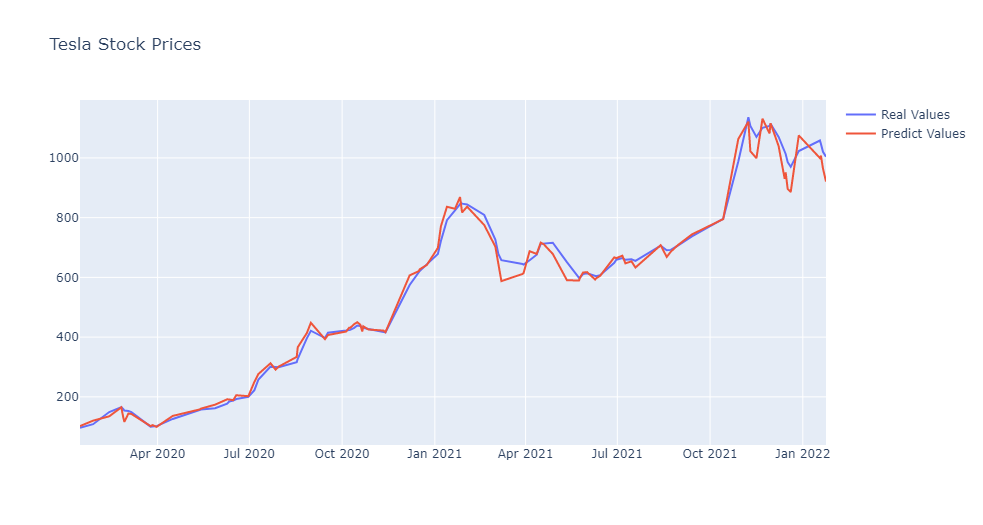
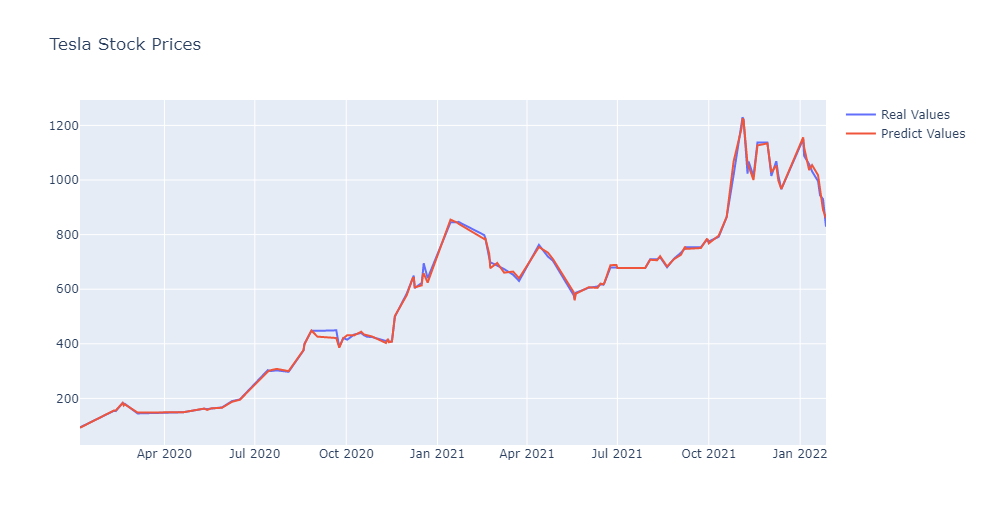
some tesla predict fixes

diff --git a/linear_regression.html b/linear_regression.html
@@ -96,7 +96,7 @@
 								<header>
 									<div class="title">
 										<h2><a href="#">Machine Learning: Predicting Stock Prices with Linear Regression</a></h2>
-										<p>A machine learning project to predict Stock Prices using the Python libraries Pandas, Numpy, SKlearn and Plotly.</p>
+										<p>A machine learning project to predict Stock Prices using the Python libraries like Pandas, Numpy, SKlearn and Plotly.</p>
 									</div>
 									<div class="meta">
 										<time class="published" datetime="2021-01-19">January 19, 2022</time>
@@ -111,10 +111,11 @@
 
 								<ul>
 									<li>This is a Machine Learning Project of the Telsa Stock price dataset (from 2020 to 2022).</li>
-									<li>I used a linear regression method to predict the past prices using a EMA10 indicator as reference.</li>
+									<li>A linear regression method was used to predict the past prices using historic values as reference.</li>
 									<li>The project was made for educational purpose and his values are not an investment advice</li>
 									<li>The tools used are the next Python libraries: Pandas, Numpy, Plotly and Sk-Learn.</li>
-									<li>The prices was obtained from <a href="https://finance.yahoo.com/quote/TSLA/" target="_blank"> Yahoo Finance site</a>  </li>
+									<li>All the procedures details are recorded in a Jupyter Notebook.</li>
+									<li>The prices was obtained from the <a href="https://finance.yahoo.com/quote/TSLA/" target="_blank"> Yahoo Finance site</a>  </li>
 									<li>All the files can be downloaded from my <a href="https://github.com/dquerales/DataScience/tree/main/Predicting%20Stock%20Prices%20with%20Linear%20Regression" target="_blank">GitHub
 										Repository.</a></li>
 								</ul>
@@ -123,20 +124,20 @@
 									Objectives
 								</h1>
 
-								<p> The goal is to train a machine learning model that tries to predict TSLA stocks prices in a range of 10 days. The data used
+								<p> The goal was to train a machine learning model that tries to predict TSLA stocks prices in a range of the two past years. The data used
 									correspond to the period of 2020-2021 to understand how the pandemic is currently affecting the performance of the company. </p>
 
                                 <h1>
-									Data transformation and data preparation
+									Data transformation and preparation
 								</h1>
 							    
 								<p> All the data was taken from <a href="https://finance.yahoo.com/quote/TSLA/" target="_blank"> Yahoo Finance site</a> as a CSV. Only was
 								used data from 01/01/2020 to 26/01/2022. </p>
 
-                                <h1>Data Analysis</h1>	
+                                <h1>Data Analysis</h1>
+								<p>For the analysis of the stock prices, we need to explore the following representations:</p> 
 									<h2>Candle Chart</h2>
-									    <p> A candlestick chart is a financial chart to describe price movements of a security, derivative, or currency. 
-											Each candlestick represents all four important information for that day:</p>
+									    <p> First, we need a candlestick chart to describe price movements of a security, derivative, or currency. Each candlestick represents all four important information for that day:</p>
 									    <ul> 
 											<li>Open: The price of the stock when the market opens in the morning </li>
 											<li>Close: The price of the stock when the market closed in the evening </li>
@@ -144,40 +145,78 @@
                                             <li>Low: Lowest price the stock is traded on that day </li>
 										</ul>
 										<span class="image featured"><img src="images/stocks/candle_chart.png" alt="" /></span>
+
+										<ul> 
+											<li>The TSLA stock price has growth 800% between 2020-2022.</li>
+											<li>The max value was 1243$ in November, 2021.</li>
+											<li>The min value was 70$ in March 2020.</li>
+										</ul>
+
 									<h2>Adjusted Close</h2>
-										<p> Adjusted close is the closing price after adjustments for all applicable splits and dividend distributions. </p>
+										<p> The adjusted close is the closing price after adjustments for all applicable splits and dividend distributions. </p>
 										<span class="image featured"><img src="images/stocks/adj_close.png" alt="" /></span>
+
+									    <ul> 
+											<li>The adjusted close price had a positive slope in the period of study.</li>
+										</ul>
+
 									<h2>Volume</h2>
 										<p>Volume measures the number of shares traded in a stock or contracts traded in futures or options. Volume can indicate market strength, as rising markets on increasing volume are typically viewed as strong and healthy. 
 											When prices fall on increasing volume, the trend is gathering strength to the downside. </p>
 										<span class="image featured"><img src="images/stocks/volume.png" alt="" /></span>
+
+										<ul> 
+											<li>The volume had a spike in February, July and December of 2020.</li>
+										</ul>
+
 									<h2>Market Capitalization</h2>
 										<p> Market capitalization (or market cap) is the total dollar value of all the shares of a company's stock. 
 											To calculate a company's market capitalization, multiply its stock's current price by the total number of outstanding shares. </p>
 									    <span class="image featured"><img src="images/stocks/market_cap.png" alt="" /></span>
-									<h2>Moving Averages (20-50 days)</h2>
+
+										<ul> 
+											<li>The Market capitalization had his highest value in December, 18, 2020.</li>
+										</ul>
+
+									<h2>Volatility</h2>
+										<p>Comparison between the changes in prices each day</p>
+									    <span class="image featured"><img src="images/stocks/volatility.png" alt="" /></span>
+									
+									    <ul> 
+											<li>The volatility was around 5% per day.</li>
+										</ul>
+
+									<h2>Moving Averages (50-200 days)</h2>
 										<p> In statistics, a moving average is a calculation to analyze data points by creating a series of averages of different subsets of the full data set. It is also called a moving mean or rolling mean and is a type of finite impulse response filter. 
 											Variations include: simple, cumulative, or weighted forms. </p>
 									    <span class="image featured"><img src="images/stocks/m_avg.png" alt="" /></span>
-									<h2>Exponential Moving Averages (10 days)</h2>
-										<p> The exponential moving average (EMA) is a technical chart indicator that tracks the price of an investment (like a stock or commodity) over time. 
-											The EMA is a type of weighted moving average (WMA) that gives more weighting or importance to recent price data. </p>
-									    <span class="image featured"><img src="images/stocks/ema.png" alt="" /></span>
+
+										<ul> 
+											<li>The 50-200 days averages were positive most of time.</li>
+										</ul>
+
 									
 								<h1>Machine Learning</h1>
 									<h2>Linear Regression Model</h2>
-										<p> linear regression is a linear approach 
-											for modelling the relationship between a scalar response and one or more explanatory variables. </p>
+										<p> To predict the past prices of the stock, was used a linear regression. This means a linear approach 
+											for modelling the relationship between the prices. </p>
+
+										<ul>
+											<li>The data was split in train and test sets, using 8:2 ratio.</li>
+                                            <li>The input was Open, High, Low and Volume. Also using the date as index</li>
+											<li>The model score using the test data was around 98% </li>
+										</ul>
 									    <span class="image featured"><img src="images/stocks/predict_ml.png" alt="" max-width: 100%;
 											height: auto; /></span>
                                 
 								<h1>Conclusions</h1>
 								<ul>
-									<li>The all time High value was 1243 USD [$] at 2021-11-04.</li>
-									<li>The all time Low value was: 70 USD [$] at 2020-03-18</li>
-									<li>The max volume was 304M at 2020-02-04</li>
-									<li>The model score is around 98% </li>
-									<li>The market volatility and a variety of other variables make extremely difficult to anticipate the rise and fall of the market with great precision.</li>
+									<li>The all time High value was 1243$ at 2021-11-04.</li>
+									<li>The all time Low value was: 70$ at 2020-03-18</li>
+									<li>The Max volume was 304M$ at 2020-02-04</li>
+									<li>If we would have invested in the TSLA stock, at start 2020, we had today a return of 8X.</li>
+									<li>The machine learning model was around 98% of accuraccy for predicting test values.</li>
+									<li>This model is only used for educational purpose. In reality, the market volatility nature makes extremely difficult to anticipate the rise and fall of the stocks.</li>
 								</ul>
 
 								<footer>
